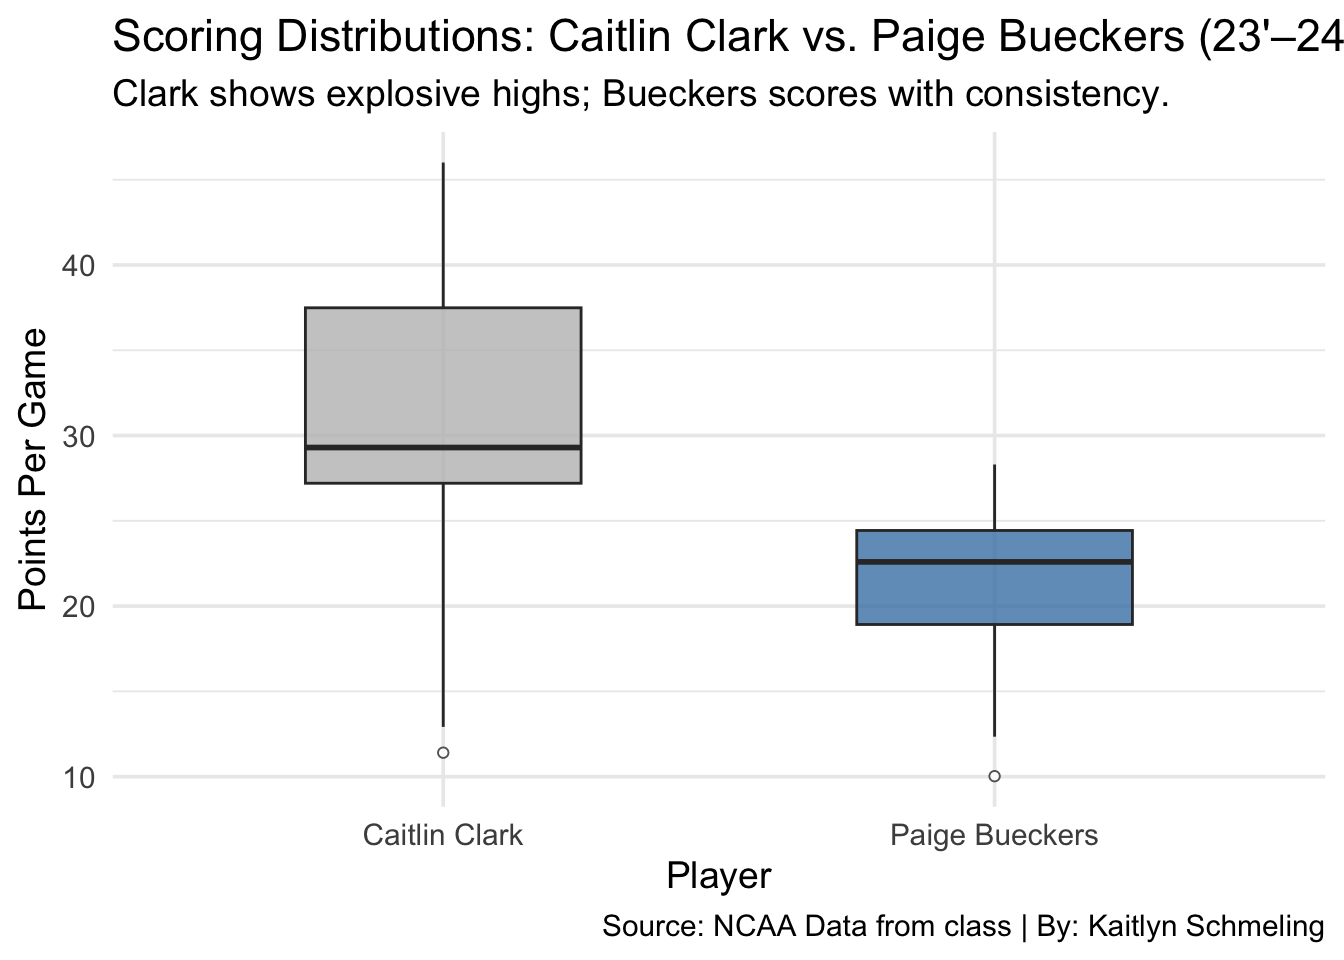
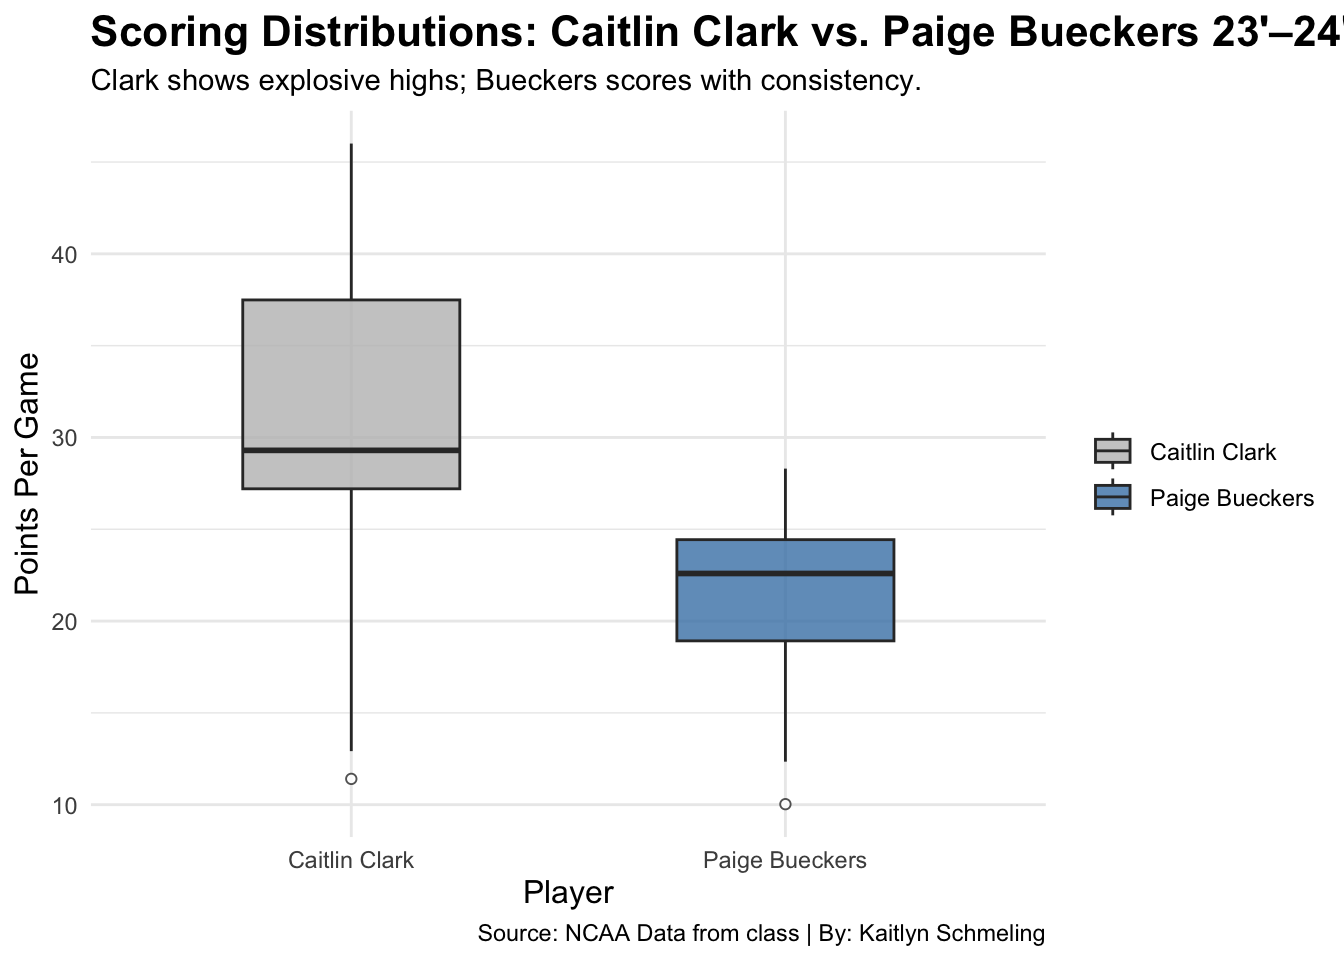
commit to main

diff --git a/posts/ncaa_womens_basketball_stars/index.html b/posts/ncaa_womens_basketball_stars/index.html
@@ -229,15 +229,24 @@ Attaching package: 'dplyr'</code></pre>
 <span id="cb5-10"><a href="#cb5-10" aria-hidden="true" tabindex="-1"></a>  <span class="fu">geom_boxplot</span>(<span class="at">width =</span> <span class="fl">0.5</span>, <span class="at">alpha =</span> <span class="fl">0.8</span>, <span class="at">outlier.shape =</span> <span class="dv">21</span>, <span class="at">outlier.fill =</span> <span class="st">"white"</span>) <span class="sc">+</span></span>
 <span id="cb5-11"><a href="#cb5-11" aria-hidden="true" tabindex="-1"></a>  <span class="fu">scale_fill_manual</span>(<span class="at">values =</span> <span class="fu">c</span>(<span class="st">"Caitlin Clark"</span> <span class="ot">=</span> <span class="st">"gray"</span>, <span class="st">"Paige Bueckers"</span> <span class="ot">=</span> <span class="st">"steelblue"</span>)) <span class="sc">+</span></span>
 <span id="cb5-12"><a href="#cb5-12" aria-hidden="true" tabindex="-1"></a>  <span class="fu">labs</span>(</span>
-<span id="cb5-13"><a href="#cb5-13" aria-hidden="true" tabindex="-1"></a>    <span class="at">title =</span> <span class="st">"Scoring Distributions: Caitlin Clark vs. Paige Bueckers (23'–24')"</span>,</span>
+<span id="cb5-13"><a href="#cb5-13" aria-hidden="true" tabindex="-1"></a>    <span class="at">title =</span> <span class="st">"Scoring Distributions: Caitlin Clark vs. Paige Bueckers 23'–24'"</span>,</span>
 <span id="cb5-14"><a href="#cb5-14" aria-hidden="true" tabindex="-1"></a>    <span class="at">subtitle =</span> <span class="st">"Clark shows explosive highs; Bueckers scores with consistency."</span>,</span>
 <span id="cb5-15"><a href="#cb5-15" aria-hidden="true" tabindex="-1"></a>       <span class="at">caption =</span> <span class="st">"Source: NCAA Data from class | By: Kaitlyn Schmeling"</span>,</span>
 <span id="cb5-16"><a href="#cb5-16" aria-hidden="true" tabindex="-1"></a>    <span class="at">x =</span> <span class="st">"Player"</span>,</span>
 <span id="cb5-17"><a href="#cb5-17" aria-hidden="true" tabindex="-1"></a>    <span class="at">y =</span> <span class="st">"Points Per Game"</span></span>
-<span id="cb5-18"><a href="#cb5-18" aria-hidden="true" tabindex="-1"></a>  ) <span class="sc">+</span></span>
-<span id="cb5-19"><a href="#cb5-19" aria-hidden="true" tabindex="-1"></a>  <span class="fu">theme_minimal</span>(<span class="at">base_size =</span> <span class="dv">14</span>) <span class="sc">+</span></span>
-<span id="cb5-20"><a href="#cb5-20" aria-hidden="true" tabindex="-1"></a>  <span class="fu">theme</span>(<span class="at">legend.position =</span> <span class="st">"none"</span>)</span></code><button title="Copy to Clipboard" class="code-copy-button"><i class="bi"></i></button></pre></div>
+<span id="cb5-18"><a href="#cb5-18" aria-hidden="true" tabindex="-1"></a>) <span class="sc">+</span></span>
+<span id="cb5-19"><a href="#cb5-19" aria-hidden="true" tabindex="-1"></a>  <span class="fu">theme_minimal</span>() <span class="sc">+</span></span>
+<span id="cb5-20"><a href="#cb5-20" aria-hidden="true" tabindex="-1"></a>  <span class="fu">theme</span>(</span>
+<span id="cb5-21"><a href="#cb5-21" aria-hidden="true" tabindex="-1"></a>    <span class="at">plot.title =</span> <span class="fu">element_text</span>(<span class="at">size =</span> <span class="dv">16</span>, <span class="at">face =</span> <span class="st">"bold"</span>),</span>
+<span id="cb5-22"><a href="#cb5-22" aria-hidden="true" tabindex="-1"></a>    <span class="at">axis.title =</span> <span class="fu">element_text</span>(<span class="at">size =</span> <span class="dv">12</span>),</span>
+<span id="cb5-23"><a href="#cb5-23" aria-hidden="true" tabindex="-1"></a>    <span class="at">legend.title =</span> <span class="fu">element_blank</span>()</span>
+<span id="cb5-24"><a href="#cb5-24" aria-hidden="true" tabindex="-1"></a>  ) <span class="sc">+</span></span>
+<span id="cb5-25"><a href="#cb5-25" aria-hidden="true" tabindex="-1"></a>  <span class="fu">scale_fill_manual</span>(<span class="at">values =</span> <span class="fu">c</span>(<span class="st">"gray"</span>, <span class="st">"steelblue"</span>))</span></code><button title="Copy to Clipboard" class="code-copy-button"><i class="bi"></i></button></pre></div>
 </details>
+<div class="cell-output cell-output-stderr">
+<pre><code>Scale for fill is already present.
+Adding another scale for fill, which will replace the existing scale.</code></pre>
+</div>
 <div class="cell-output-display">
 <div>
 <figure class="figure">
@@ -251,35 +260,34 @@ Attaching package: 'dplyr'</code></pre>
 <div class="cell">
 <details class="code-fold">
 <summary>Code</summary>
-<div class="sourceCode cell-code" id="cb6"><pre class="sourceCode r code-with-copy"><code class="sourceCode r"><span id="cb6-1"><a href="#cb6-1" aria-hidden="true" tabindex="-1"></a>knitr<span class="sc">::</span>opts_chunk<span class="sc">$</span><span class="fu">set</span>(<span class="at">message =</span> <span class="cn">FALSE</span>, <span class="at">warning =</span> <span class="cn">FALSE</span>)</span>
-<span id="cb6-2"><a href="#cb6-2" aria-hidden="true" tabindex="-1"></a><span class="fu">library</span>(ggplot2)</span>
-<span id="cb6-3"><a href="#cb6-3" aria-hidden="true" tabindex="-1"></a><span class="fu">library</span>(dplyr)</span>
-<span id="cb6-4"><a href="#cb6-4" aria-hidden="true" tabindex="-1"></a></span>
-<span id="cb6-5"><a href="#cb6-5" aria-hidden="true" tabindex="-1"></a><span class="co"># Create a data frame with fictional (but realistic) stats</span></span>
-<span id="cb6-6"><a href="#cb6-6" aria-hidden="true" tabindex="-1"></a>stats <span class="ot">&lt;-</span> <span class="fu">data.frame</span>(</span>
-<span id="cb6-7"><a href="#cb6-7" aria-hidden="true" tabindex="-1"></a>  <span class="at">Player =</span> <span class="fu">rep</span>(<span class="fu">c</span>(<span class="st">"Paige Bueckers"</span>, <span class="st">"Caitlin Clark"</span>), <span class="at">each =</span> <span class="dv">5</span>),</span>
-<span id="cb6-8"><a href="#cb6-8" aria-hidden="true" tabindex="-1"></a>  <span class="at">Stat =</span> <span class="fu">rep</span>(<span class="fu">c</span>(<span class="st">"PPG"</span>, <span class="st">"APG"</span>, <span class="st">"FG%"</span>, <span class="st">"3P%"</span>, <span class="st">"TO"</span>), <span class="at">times =</span> <span class="dv">2</span>),</span>
-<span id="cb6-9"><a href="#cb6-9" aria-hidden="true" tabindex="-1"></a>  <span class="at">Value =</span> <span class="fu">c</span>(</span>
-<span id="cb6-10"><a href="#cb6-10" aria-hidden="true" tabindex="-1"></a>    <span class="fl">21.9</span>, <span class="fl">3.8</span>, <span class="fl">52.5</span>, <span class="fl">41.7</span>, <span class="fl">2.2</span>,   <span class="co"># Bueckers</span></span>
-<span id="cb6-11"><a href="#cb6-11" aria-hidden="true" tabindex="-1"></a>    <span class="fl">31.6</span>, <span class="fl">8.9</span>, <span class="fl">46.0</span>, <span class="fl">37.8</span>, <span class="fl">4.1</span>    <span class="co"># Clark</span></span>
-<span id="cb6-12"><a href="#cb6-12" aria-hidden="true" tabindex="-1"></a>  )</span>
-<span id="cb6-13"><a href="#cb6-13" aria-hidden="true" tabindex="-1"></a>)</span>
-<span id="cb6-14"><a href="#cb6-14" aria-hidden="true" tabindex="-1"></a><span class="fu">ggplot</span>(stats, <span class="fu">aes</span>(<span class="at">x =</span> Stat, <span class="at">y =</span> Value, <span class="at">fill =</span> Player)) <span class="sc">+</span></span>
-<span id="cb6-15"><a href="#cb6-15" aria-hidden="true" tabindex="-1"></a>  <span class="fu">geom_bar</span>(<span class="at">stat =</span> <span class="st">"identity"</span>, <span class="at">position =</span> <span class="st">"dodge"</span>, <span class="at">width =</span> <span class="fl">0.7</span>) <span class="sc">+</span></span>
-<span id="cb6-16"><a href="#cb6-16" aria-hidden="true" tabindex="-1"></a>  <span class="fu">labs</span>(</span>
-<span id="cb6-17"><a href="#cb6-17" aria-hidden="true" tabindex="-1"></a>    <span class="at">title =</span> <span class="st">"Battle of the Best: Bueckers and Clark’s Stat Showdown"</span>,</span>
-<span id="cb6-18"><a href="#cb6-18" aria-hidden="true" tabindex="-1"></a>    <span class="at">subtitle =</span> <span class="st">"Comparing the 2023-2024 season."</span>,</span>
-<span id="cb6-19"><a href="#cb6-19" aria-hidden="true" tabindex="-1"></a>    <span class="at">caption =</span> <span class="st">"Source: NCAA Data from class | By: Kaitlyn Schmeling"</span>,</span>
-<span id="cb6-20"><a href="#cb6-20" aria-hidden="true" tabindex="-1"></a>    <span class="at">x =</span> <span class="st">"Stat Type"</span>,</span>
-<span id="cb6-21"><a href="#cb6-21" aria-hidden="true" tabindex="-1"></a>    <span class="at">y =</span> <span class="st">"Season Average"</span></span>
-<span id="cb6-22"><a href="#cb6-22" aria-hidden="true" tabindex="-1"></a>  ) <span class="sc">+</span></span>
-<span id="cb6-23"><a href="#cb6-23" aria-hidden="true" tabindex="-1"></a>  <span class="fu">theme_minimal</span>() <span class="sc">+</span></span>
-<span id="cb6-24"><a href="#cb6-24" aria-hidden="true" tabindex="-1"></a>  <span class="fu">theme</span>(</span>
-<span id="cb6-25"><a href="#cb6-25" aria-hidden="true" tabindex="-1"></a>    <span class="at">plot.title =</span> <span class="fu">element_text</span>(<span class="at">size =</span> <span class="dv">16</span>, <span class="at">face =</span> <span class="st">"bold"</span>),</span>
-<span id="cb6-26"><a href="#cb6-26" aria-hidden="true" tabindex="-1"></a>    <span class="at">axis.title =</span> <span class="fu">element_text</span>(<span class="at">size =</span> <span class="dv">12</span>),</span>
-<span id="cb6-27"><a href="#cb6-27" aria-hidden="true" tabindex="-1"></a>    <span class="at">legend.title =</span> <span class="fu">element_blank</span>()</span>
-<span id="cb6-28"><a href="#cb6-28" aria-hidden="true" tabindex="-1"></a>  ) <span class="sc">+</span></span>
-<span id="cb6-29"><a href="#cb6-29" aria-hidden="true" tabindex="-1"></a>  <span class="fu">scale_fill_manual</span>(<span class="at">values =</span> <span class="fu">c</span>(<span class="st">"gray"</span>, <span class="st">"steelblue"</span>))</span></code><button title="Copy to Clipboard" class="code-copy-button"><i class="bi"></i></button></pre></div>
+<div class="sourceCode cell-code" id="cb7"><pre class="sourceCode r code-with-copy"><code class="sourceCode r"><span id="cb7-1"><a href="#cb7-1" aria-hidden="true" tabindex="-1"></a>knitr<span class="sc">::</span>opts_chunk<span class="sc">$</span><span class="fu">set</span>(<span class="at">message =</span> <span class="cn">FALSE</span>, <span class="at">warning =</span> <span class="cn">FALSE</span>)</span>
+<span id="cb7-2"><a href="#cb7-2" aria-hidden="true" tabindex="-1"></a><span class="fu">library</span>(ggplot2)</span>
+<span id="cb7-3"><a href="#cb7-3" aria-hidden="true" tabindex="-1"></a><span class="fu">library</span>(dplyr)</span>
+<span id="cb7-4"><a href="#cb7-4" aria-hidden="true" tabindex="-1"></a></span>
+<span id="cb7-5"><a href="#cb7-5" aria-hidden="true" tabindex="-1"></a>stats <span class="ot">&lt;-</span> <span class="fu">data.frame</span>(</span>
+<span id="cb7-6"><a href="#cb7-6" aria-hidden="true" tabindex="-1"></a>  <span class="at">Player =</span> <span class="fu">rep</span>(<span class="fu">c</span>(<span class="st">"Paige Bueckers"</span>, <span class="st">"Caitlin Clark"</span>), <span class="at">each =</span> <span class="dv">5</span>),</span>
+<span id="cb7-7"><a href="#cb7-7" aria-hidden="true" tabindex="-1"></a>  <span class="at">Stat =</span> <span class="fu">rep</span>(<span class="fu">c</span>(<span class="st">"PPG"</span>, <span class="st">"APG"</span>, <span class="st">"FG%"</span>, <span class="st">"3P%"</span>, <span class="st">"TO"</span>), <span class="at">times =</span> <span class="dv">2</span>),</span>
+<span id="cb7-8"><a href="#cb7-8" aria-hidden="true" tabindex="-1"></a>  <span class="at">Value =</span> <span class="fu">c</span>(</span>
+<span id="cb7-9"><a href="#cb7-9" aria-hidden="true" tabindex="-1"></a>    <span class="fl">21.9</span>, <span class="fl">3.8</span>, <span class="fl">52.5</span>, <span class="fl">41.7</span>, <span class="fl">2.2</span>,   <span class="co"># Bueckers</span></span>
+<span id="cb7-10"><a href="#cb7-10" aria-hidden="true" tabindex="-1"></a>    <span class="fl">31.6</span>, <span class="fl">8.9</span>, <span class="fl">46.0</span>, <span class="fl">37.8</span>, <span class="fl">4.1</span>    <span class="co"># Clark</span></span>
+<span id="cb7-11"><a href="#cb7-11" aria-hidden="true" tabindex="-1"></a>  )</span>
+<span id="cb7-12"><a href="#cb7-12" aria-hidden="true" tabindex="-1"></a>)</span>
+<span id="cb7-13"><a href="#cb7-13" aria-hidden="true" tabindex="-1"></a><span class="fu">ggplot</span>(stats, <span class="fu">aes</span>(<span class="at">x =</span> Stat, <span class="at">y =</span> Value, <span class="at">fill =</span> Player)) <span class="sc">+</span></span>
+<span id="cb7-14"><a href="#cb7-14" aria-hidden="true" tabindex="-1"></a>  <span class="fu">geom_bar</span>(<span class="at">stat =</span> <span class="st">"identity"</span>, <span class="at">position =</span> <span class="st">"dodge"</span>, <span class="at">width =</span> <span class="fl">0.7</span>) <span class="sc">+</span></span>
+<span id="cb7-15"><a href="#cb7-15" aria-hidden="true" tabindex="-1"></a>  <span class="fu">labs</span>(</span>
+<span id="cb7-16"><a href="#cb7-16" aria-hidden="true" tabindex="-1"></a>    <span class="at">title =</span> <span class="st">"Battle of the Best: Bueckers and Clark’s Stat Showdown"</span>,</span>
+<span id="cb7-17"><a href="#cb7-17" aria-hidden="true" tabindex="-1"></a>    <span class="at">subtitle =</span> <span class="st">"Comparing the 2023-2024 season."</span>,</span>
+<span id="cb7-18"><a href="#cb7-18" aria-hidden="true" tabindex="-1"></a>    <span class="at">caption =</span> <span class="st">"Source: NCAA Data from class | By: Kaitlyn Schmeling"</span>,</span>
+<span id="cb7-19"><a href="#cb7-19" aria-hidden="true" tabindex="-1"></a>    <span class="at">x =</span> <span class="st">"Stat Type"</span>,</span>
+<span id="cb7-20"><a href="#cb7-20" aria-hidden="true" tabindex="-1"></a>    <span class="at">y =</span> <span class="st">"Season Average"</span></span>
+<span id="cb7-21"><a href="#cb7-21" aria-hidden="true" tabindex="-1"></a>  ) <span class="sc">+</span></span>
+<span id="cb7-22"><a href="#cb7-22" aria-hidden="true" tabindex="-1"></a>  <span class="fu">theme_minimal</span>() <span class="sc">+</span></span>
+<span id="cb7-23"><a href="#cb7-23" aria-hidden="true" tabindex="-1"></a>  <span class="fu">theme</span>(</span>
+<span id="cb7-24"><a href="#cb7-24" aria-hidden="true" tabindex="-1"></a>    <span class="at">plot.title =</span> <span class="fu">element_text</span>(<span class="at">size =</span> <span class="dv">16</span>, <span class="at">face =</span> <span class="st">"bold"</span>),</span>
+<span id="cb7-25"><a href="#cb7-25" aria-hidden="true" tabindex="-1"></a>    <span class="at">axis.title =</span> <span class="fu">element_text</span>(<span class="at">size =</span> <span class="dv">12</span>),</span>
+<span id="cb7-26"><a href="#cb7-26" aria-hidden="true" tabindex="-1"></a>    <span class="at">legend.title =</span> <span class="fu">element_blank</span>()</span>
+<span id="cb7-27"><a href="#cb7-27" aria-hidden="true" tabindex="-1"></a>  ) <span class="sc">+</span></span>
+<span id="cb7-28"><a href="#cb7-28" aria-hidden="true" tabindex="-1"></a>  <span class="fu">scale_fill_manual</span>(<span class="at">values =</span> <span class="fu">c</span>(<span class="st">"gray"</span>, <span class="st">"steelblue"</span>))</span></code><button title="Copy to Clipboard" class="code-copy-button"><i class="bi"></i></button></pre></div>
 </details>
 <div class="cell-output-display">
 <div>
@@ -291,6 +299,49 @@ Attaching package: 'dplyr'</code></pre>
 </div>
 <p>In the 2023–2024 season, Caitlin Clark clearly shouldered the heavier offensive workload, leading in both points per game (PPG) and assists per game (APG). Her high-volume scoring and playmaking defined Iowa’s offense, often placing the ball in her hands for both shot creation and distribution. On the other side, Paige Bueckers showcased remarkable efficiency, posting higher field goal (FG%) and three-point percentages (3P%) while committing fewer turnovers. Bueckers’ ability to produce with fewer possessions highlights her precision and control, contrasting Clark’s high-tempo, high-usage role. Together, their stats reflect two elite but distinct styles—Clark’s dominance through volume and Bueckers’ mastery through efficiency.</p>
 <p>You can see all this displayed in the bar graph above.</p>
+<div class="cell">
+<details class="code-fold">
+<summary>Code</summary>
+<div class="sourceCode cell-code" id="cb8"><pre class="sourceCode r code-with-copy"><code class="sourceCode r"><span id="cb8-1"><a href="#cb8-1" aria-hidden="true" tabindex="-1"></a><span class="fu">library</span>(ggplot2)</span>
+<span id="cb8-2"><a href="#cb8-2" aria-hidden="true" tabindex="-1"></a></span>
+<span id="cb8-3"><a href="#cb8-3" aria-hidden="true" tabindex="-1"></a><span class="co"># Manually input the data for multiple stats per game (Points, Assists for example)</span></span>
+<span id="cb8-4"><a href="#cb8-4" aria-hidden="true" tabindex="-1"></a>df <span class="ot">&lt;-</span> <span class="fu">data.frame</span>(</span>
+<span id="cb8-5"><a href="#cb8-5" aria-hidden="true" tabindex="-1"></a>  <span class="at">Game =</span> <span class="fu">rep</span>(<span class="dv">1</span><span class="sc">:</span><span class="dv">10</span>, <span class="at">times =</span> <span class="dv">2</span>),</span>
+<span id="cb8-6"><a href="#cb8-6" aria-hidden="true" tabindex="-1"></a>  <span class="at">Player =</span> <span class="fu">c</span>(<span class="fu">rep</span>(<span class="st">"Paige Bueckers"</span>, <span class="dv">10</span>), <span class="fu">rep</span>(<span class="st">"Caitlin Clark"</span>, <span class="dv">10</span>)),</span>
+<span id="cb8-7"><a href="#cb8-7" aria-hidden="true" tabindex="-1"></a>  <span class="at">Stat =</span> <span class="fu">rep</span>(<span class="fu">c</span>(<span class="st">"Points"</span>, <span class="st">"Assists"</span>), <span class="at">each =</span> <span class="dv">10</span>),</span>
+<span id="cb8-8"><a href="#cb8-8" aria-hidden="true" tabindex="-1"></a>  <span class="at">Value =</span> <span class="fu">c</span>(</span>
+<span id="cb8-9"><a href="#cb8-9" aria-hidden="true" tabindex="-1"></a>    <span class="dv">22</span>, <span class="dv">5</span>, <span class="dv">18</span>, <span class="dv">6</span>, <span class="dv">25</span>, <span class="dv">7</span>, <span class="dv">20</span>, <span class="dv">4</span>, <span class="dv">19</span>, <span class="dv">6</span>,</span>
+<span id="cb8-10"><a href="#cb8-10" aria-hidden="true" tabindex="-1"></a>    <span class="dv">30</span>, <span class="dv">8</span>, <span class="dv">28</span>, <span class="dv">9</span>, <span class="dv">35</span>, <span class="dv">10</span>, <span class="dv">27</span>, <span class="dv">7</span>, <span class="dv">31</span>, <span class="dv">8</span></span>
+<span id="cb8-11"><a href="#cb8-11" aria-hidden="true" tabindex="-1"></a>  )</span>
+<span id="cb8-12"><a href="#cb8-12" aria-hidden="true" tabindex="-1"></a>)</span>
+<span id="cb8-13"><a href="#cb8-13" aria-hidden="true" tabindex="-1"></a><span class="fu">ggplot</span>(df, <span class="fu">aes</span>(<span class="at">x =</span> Game, <span class="at">y =</span> Value, <span class="at">color =</span> Player, <span class="at">group =</span> <span class="fu">interaction</span>(Player, Stat), <span class="at">linetype =</span> Stat)) <span class="sc">+</span></span>
+<span id="cb8-14"><a href="#cb8-14" aria-hidden="true" tabindex="-1"></a>  <span class="fu">geom_line</span>(<span class="at">size =</span> <span class="fl">1.2</span>) <span class="sc">+</span></span>
+<span id="cb8-15"><a href="#cb8-15" aria-hidden="true" tabindex="-1"></a>  <span class="fu">geom_point</span>(<span class="at">size =</span> <span class="dv">3</span>) <span class="sc">+</span></span>
+<span id="cb8-16"><a href="#cb8-16" aria-hidden="true" tabindex="-1"></a>  <span class="fu">labs</span>(</span>
+<span id="cb8-17"><a href="#cb8-17" aria-hidden="true" tabindex="-1"></a>    <span class="at">title =</span> <span class="st">"The Ultimate Showdown: Bueckers vs. Clark (2023–24)"</span>,</span>
+<span id="cb8-18"><a href="#cb8-18" aria-hidden="true" tabindex="-1"></a>    <span class="at">subtitle =</span> <span class="st">"Comparing Consistency and Volume in Points and Assists"</span>,</span>
+<span id="cb8-19"><a href="#cb8-19" aria-hidden="true" tabindex="-1"></a>    <span class="at">caption =</span> <span class="st">"Source: NCAA Data from class | By: Kaitlyn Schmeling"</span>,</span>
+<span id="cb8-20"><a href="#cb8-20" aria-hidden="true" tabindex="-1"></a>    <span class="at">x =</span> <span class="st">"Game Number"</span>,</span>
+<span id="cb8-21"><a href="#cb8-21" aria-hidden="true" tabindex="-1"></a>    <span class="at">y =</span> <span class="st">"Value (Points/Assists)"</span></span>
+<span id="cb8-22"><a href="#cb8-22" aria-hidden="true" tabindex="-1"></a>  ) <span class="sc">+</span></span>
+<span id="cb8-23"><a href="#cb8-23" aria-hidden="true" tabindex="-1"></a>  <span class="fu">scale_color_manual</span>(<span class="at">values =</span> <span class="fu">c</span>(<span class="st">"Paige Bueckers"</span> <span class="ot">=</span> <span class="st">"steelblue"</span>, <span class="st">"Caitlin Clark"</span> <span class="ot">=</span> <span class="st">"grey"</span>)) <span class="sc">+</span>  <span class="co"># Blue for Bueckers, Grey for Clark</span></span>
+<span id="cb8-24"><a href="#cb8-24" aria-hidden="true" tabindex="-1"></a>  <span class="fu">scale_linetype_manual</span>(<span class="at">values =</span> <span class="fu">c</span>(<span class="st">"Points"</span> <span class="ot">=</span> <span class="st">"solid"</span>, <span class="st">"Assists"</span> <span class="ot">=</span> <span class="st">"dashed"</span>)) <span class="sc">+</span>   <span class="co"># Solid for points, dashed for assists</span></span>
+<span id="cb8-25"><a href="#cb8-25" aria-hidden="true" tabindex="-1"></a>  <span class="fu">theme_minimal</span>() <span class="sc">+</span></span>
+<span id="cb8-26"><a href="#cb8-26" aria-hidden="true" tabindex="-1"></a>  <span class="fu">theme</span>(</span>
+<span id="cb8-27"><a href="#cb8-27" aria-hidden="true" tabindex="-1"></a>    <span class="at">plot.title =</span> <span class="fu">element_text</span>(<span class="at">size =</span> <span class="dv">16</span>, <span class="at">face =</span> <span class="st">"bold"</span>),</span>
+<span id="cb8-28"><a href="#cb8-28" aria-hidden="true" tabindex="-1"></a>    <span class="at">axis.title =</span> <span class="fu">element_text</span>(<span class="at">size =</span> <span class="dv">12</span>),</span>
+<span id="cb8-29"><a href="#cb8-29" aria-hidden="true" tabindex="-1"></a>    <span class="at">legend.title =</span> <span class="fu">element_blank</span>()</span>
+<span id="cb8-30"><a href="#cb8-30" aria-hidden="true" tabindex="-1"></a>  )</span></code><button title="Copy to Clipboard" class="code-copy-button"><i class="bi"></i></button></pre></div>
+</details>
+<div class="cell-output-display">
+<div>
+<figure class="figure">
+<p><img src="index_files/figure-html/unnamed-chunk-3-1.png" class="img-fluid figure-img" width="672"></p>
+</figure>
+</div>
+</div>
+</div>
+<p>The line chart provides a clear visual comparison of Paige Bueckers and Caitlin Clark’s game-by-game performance in the 2023–2024 season. Paige Bueckers (depicted in blue) maintains a relatively consistent scoring and assist pattern across the games, with solid lines representing her points per game and dashed lines indicating her assists per game. In contrast, Caitlin Clark (shown in grey) displays a more dynamic performance, with noticeable fluctuations in both her points and assists. The solid blue and dashed lines for Bueckers highlight her steady contribution, while Clark’s dashed grey line for assists and solid grey line for points reflect her high-volume, high-impact style of play. The chart clearly contrasts the efficiency of Bueckers with Clark’s offensive workload, showing both players’ unique strengths through visual trends in their game statistics.</p>
 
 
 

diff --git a/index.html b/index.html
@@ -205,10 +205,10 @@ window.Quarto = {
 
 <div class="quarto-listing quarto-listing-container-default" id="listing-listing">
 <div class="list quarto-listing-default">
-<div class="quarto-post image-right" data-index="0" data-categories="bmNhYSUyQ2Jhc2tldGJhbGwlMkNwbGF5ZXJz" data-listing-date-sort="1744866000000" data-listing-file-modified-sort="1745966047220" data-listing-date-modified-sort="NaN" data-listing-reading-time-sort="3" data-listing-word-count-sort="522">
+<div class="quarto-post image-right" data-index="0" data-categories="bmNhYSUyQ2Jhc2tldGJhbGwlMkNwbGF5ZXJz" data-listing-date-sort="1744866000000" data-listing-file-modified-sort="1745966988756" data-listing-date-modified-sort="NaN" data-listing-reading-time-sort="5" data-listing-word-count-sort="891">
 <div class="thumbnail">
 <p><a href="./posts/ncaa_womens_basketball_stars/index.html" class="no-external"></a></p><a href="./posts/ncaa_womens_basketball_stars/index.html" class="no-external">
-<p><img loading="lazy" src="./posts/ncaa_womens_basketball_stars/image.png" class="thumbnail-image"></p>
+<p><img loading="lazy" src="./posts/ncaa_womens_basketball_stars/IMAGE.jpg" class="thumbnail-image"></p>
 </a><p><a href="./posts/ncaa_womens_basketball_stars/index.html" class="no-external"></a></p>
 </div>
 <div class="body">
